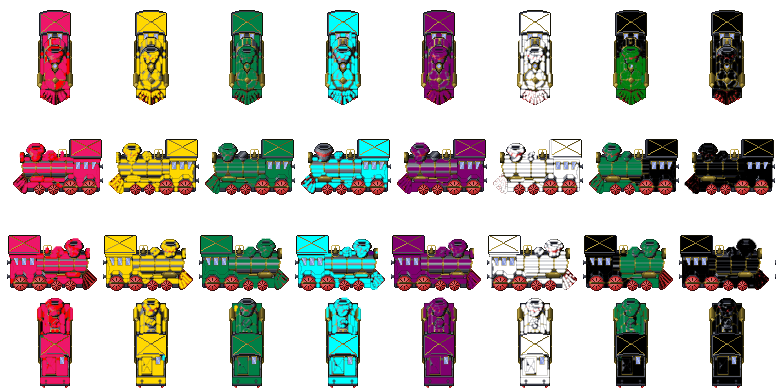
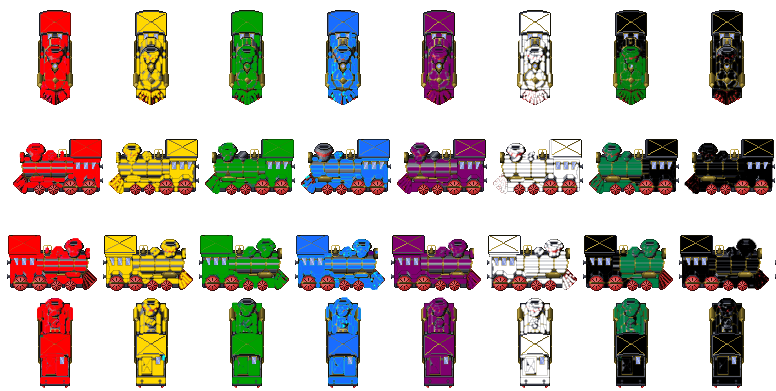
- switched background image - repainted blue, green and red trains for better visibility

diff --git a/GameProject/src/game/Engine.java b/GameProject/src/game/Engine.java
@@ -55,7 +55,7 @@ public class Engine implements Runnable {
 
     public void initialize() {
         Assets.init();
-        backgroundImage = Assets.load("/images/background.png");
+        backgroundImage = Assets.load("/images/background2.png");
 
         AudioManager.loadSounds();
 
